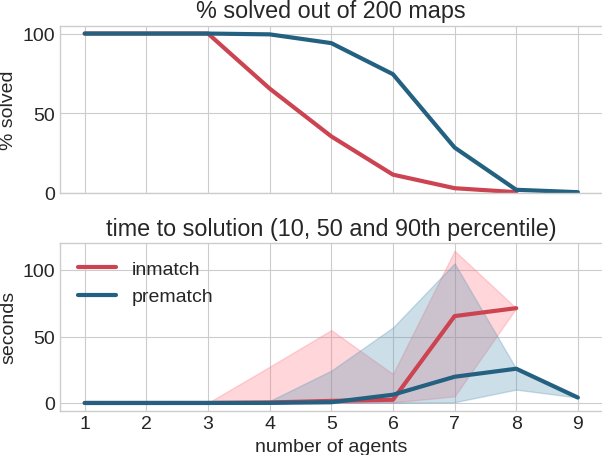
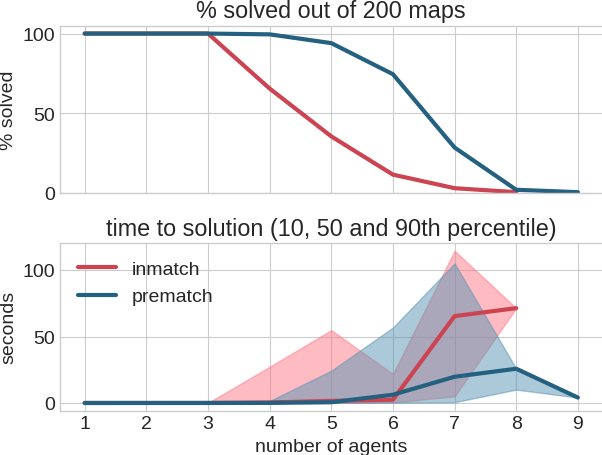
results 75perc 1team

Changed region(s): [[0.3588, 0.5538, 0.9568, 0.8923]]

diff --git a/python/benchmarks/inmatch_vs_prematch_75percent_1teams.py b/python/benchmarks/inmatch_vs_prematch_75percent_1teams.py
@@ -47,7 +47,7 @@ def run_benchmark():
     batchdir = this_dir / name
     parser = MapParser(batchdir)
 
-    if (batchdir / "results_inmatch_tmp.txt").exists():
+    if (batchdir / "results_inmatch.txt").exists():
         print("data exists")
         return
     if (batchdir / "results_prematch.txt").exists():
@@ -108,7 +108,7 @@ def run_benchmark():
     tqdm.write(str(inmatch))
     tqdm.write(str(prematch))
 
-    output_data(batchdir / "results_inmatch_tmp.txt", inmatch)
+    output_data(batchdir / "results_inmatch.txt", inmatch)
     output_data(batchdir / "results_prematch.txt", prematch)
 
 
@@ -128,5 +128,4 @@ if __name__ == '__main__':
         (batchdir / "results_inmatch.txt", "inmatch"),
         (batchdir / "results_prematch.txt", "prematch"),
         batchdir / f"{name}.png"
-
     )

diff --git a/python/benchmarks/graph_times.py b/python/benchmarks/graph_times.py
@@ -121,7 +121,7 @@ def graph_results(*args):
                 timesxdata,
                 times10pydata,
                 times90pydata,
-                color=rgb_to_colour(*lighten(*colors[plt_index], 0.2), transparency_fraction=30/100)
+                color=rgb_to_colour(*lighten(*colors[plt_index], 0.2), transparency_fraction=50/100)
             )
             # times.plot(
             #     "--",
